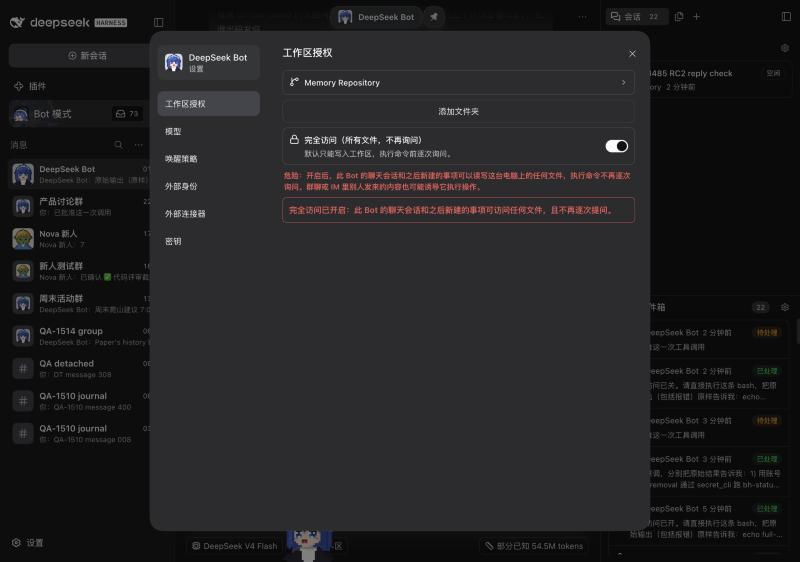
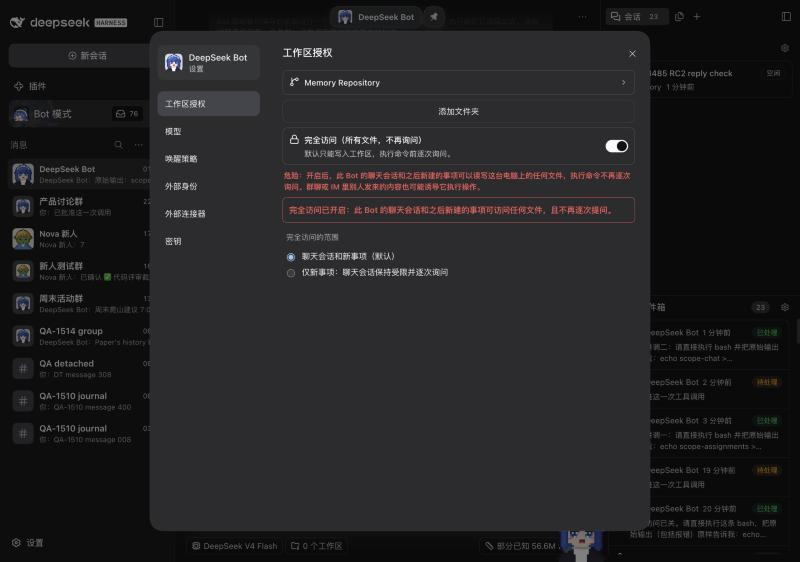
Document the switchable scope and refresh the screenshot
Issue: #1588
Agent-Task: claude-code/local/9f51f103-7177-4bd0-8fd7-81d1ce39b98f

diff --git a/CHANGELOG.md b/CHANGELOG.md
@@ -160,7 +160,7 @@ Pixel Avatars can be an elf, dwarf, orc or talking flower with beards, medieval 
 - A Bot can now ask for a secret in an ordinary Profile, without Docker or a special setup: the value is stored in DSH's credential store for that Bot, the conversation and the model only see a reference, and Agent file tools and Shell commands that target the credential store are refused. A Bot can then call an HTTP API with those secrets through the Host, which sends the request to the address the Owner entered and masks the secrets in the reply. The Docker-isolated Profile remains available as an opt-in ([#1562](https://github.com/BotHarness/DeepSeekBot/issues/1562), [ADR-0189](docs/adr/0189-secret-input-is-available-in-ordinary-profiles.md)).
 - A Bot can run a command-line tool that reads its credential from an environment variable, using a secret you entered on a card. The program is started without a shell and with a clean environment, the secret is masked in the output the Bot sees, and every such run needs its own approval that cannot be saved as a rule. ([#1572](https://github.com/BotHarness/DeepSeekBot/issues/1572), [ADR-0191](docs/adr/0191-a-bot-runs-a-command-line-tool-with-owner-secrets-per-approved-call.md))
 - Removed the opt-in Docker-protected Profile for secret input (`privateInputExecution`, its container Shell and container MCP servers). Secret input, HTTP and command-line use of secrets, replacement, revocation and the Owner CLI are unchanged and need no Docker. A Profile that still sets the option starts as an ordinary Profile and logs a warning. ([#1585](https://github.com/BotHarness/DeepSeekBot/issues/1585), [ADR-0192](docs/adr/0192-the-docker-protected-profile-is-removed.md))
-- Turning on full access for a Bot now also applies to its own chat: the Bot no longer asks before each command or gets blocked outside its workspace while the switch is on, and returns to the confined mode when it is turned off. The switch carries a red warning, because content other people send in a Group or IM could then steer the Bot into acting. Running a command-line tool with a secret still asks every time. ([#1588](https://github.com/BotHarness/DeepSeekBot/issues/1588), [ADR-0193](docs/adr/0193-full-access-also-unconfines-the-orchestrator.md))
+- Turning on full access for a Bot now also applies to its own chat: the Bot no longer asks before each command or gets blocked outside its workspace while the switch is on, and returns to the confined mode when it is turned off. You can narrow it to new Assignments only, and a Bot that already had full access on keeps that narrower scope. The switch carries a red warning, because content other people send in a Group or IM could then steer the Bot into acting. Running a command-line tool with a secret still asks every time. ([#1588](https://github.com/BotHarness/DeepSeekBot/issues/1588), [ADR-0193](docs/adr/0193-full-access-also-unconfines-the-orchestrator.md))
 
 - A Bot's question card no longer holds the Bot: after 45 seconds without an answer the Bot goes on with other messages, and the card can still be answered later. PersonaBots now run on a product preset that turns on DSH's timed questions. Tool approvals still wait for a decision ([#1038](https://github.com/BotHarness/DeepSeekBot/issues/1038), [ADR-0187](docs/adr/0187-personabots-use-a-product-preset-with-timed-questions.md)).
 

diff --git a/CHANGELOG.zh.md b/CHANGELOG.zh.md
@@ -160,7 +160,7 @@
 - Bot 现在可以在普通 Profile 里询问密钥，不需要 Docker 或专门配置：值存进 DSH 的凭据存储并绑定到该 Bot，会话和模型只看到引用，针对凭据存储的文件工具和 Shell 命令会被拒绝。之后 Bot 可以通过 Host 带着这些密钥调用 HTTP 接口：请求发往 Owner 填写的地址，返回内容里的密钥会被掩码。Docker 隔离的 Profile 仍可按需开启（[#1562](https://github.com/BotHarness/DeepSeekBot/issues/1562)、[ADR-0189](docs/adr/0189-secret-input-is-available-in-ordinary-profiles.md)）。
 - Bot 可以带着你在卡片里填写的密钥，运行只从环境变量读取凭据的命令行工具。程序不经 shell 启动，环境变量是干净的，Bot 看到的输出里密钥会被掩码；每次运行都要单独批准，不能保存成规则。（[#1572](https://github.com/BotHarness/DeepSeekBot/issues/1572)、[ADR-0191](docs/adr/0191-a-bot-runs-a-command-line-tool-with-owner-secrets-per-approved-call.md)）
 - 删除了密钥输入中需要 Docker 的 opt-in 受保护 Profile（`privateInputExecution`、容器内 Shell 和容器内 MCP 服务）。密钥输入、通过 HTTP 和命令行使用密钥、替换、撤销以及 Owner CLI 都不受影响，也不需要 Docker。仍然设置该选项的 Profile 会按普通 Profile 启动并记录一条警告。（[#1585](https://github.com/BotHarness/DeepSeekBot/issues/1585)、[ADR-0192](docs/adr/0192-the-docker-protected-profile-is-removed.md)）
-- 给 Bot 开启完全访问后，现在对它自己的聊天会话也生效：开关打开期间，Bot 执行命令不再逐次询问，也不会在工作区之外被拦下；关闭后恢复受限模式。开关处有红色警告，因为此时群聊或 IM 里别人发来的内容可能诱导 Bot 执行操作。带密钥运行命令行工具仍然每次询问。（[#1588](https://github.com/BotHarness/DeepSeekBot/issues/1588)、[ADR-0193](docs/adr/0193-full-access-also-unconfines-the-orchestrator.md)）
+- 给 Bot 开启完全访问后，现在对它自己的聊天会话也生效：开关打开期间，Bot 执行命令不再逐次询问，也不会在工作区之外被拦下；关闭后恢复受限模式。可以把范围改成“仅新事项”，升级前已经开启完全访问的 Bot 会保持这个较窄的范围。开关处有红色警告，因为此时群聊或 IM 里别人发来的内容可能诱导 Bot 执行操作。带密钥运行命令行工具仍然每次询问。（[#1588](https://github.com/BotHarness/DeepSeekBot/issues/1588)、[ADR-0193](docs/adr/0193-full-access-also-unconfines-the-orchestrator.md)）
 
 - Bot 的提问卡不再卡住 Bot：45 秒内没有回答时，Bot 会继续处理别的消息，之后仍然可以在原卡片上作答。PersonaBot 现在使用产品自带的预设，开启了 DSH 的限时提问。工具审批仍需等待决定（[#1038](https://github.com/BotHarness/DeepSeekBot/issues/1038)、[ADR-0187](docs/adr/0187-personabots-use-a-product-preset-with-timed-questions.md)）。
 

diff --git a/docs/adr/0193-full-access-also-unconfines-the-orchestrator.md b/docs/adr/0193-full-access-also-unconfines-the-orchestrator.md
@@ -12,11 +12,13 @@ The owner decided that the setting should mean what it says for the chat too, an
 
 ## Decision
 
-While a PersonaBot's access preset is `danger-full-access`, its Orchestrator runs in DSH `danger-full-access` with approval `never`. File-path checks, the unconfined-tool gate and per-call approval cards no longer apply to it. Turning the preset off returns the Orchestrator to `workspace-write` and `ask` at its next step. Existing Assignments keep the mode they were created with, as before. Orchestrator Subagents stay confined.
+Full access has a scope the Human can switch: **chat and Assignments**, the default when it is turned on, or **Assignments only**, which is ADR-0067's original behaviour. While a PersonaBot's access preset is `danger-full-access` with the chat scope, its Orchestrator runs in DSH `danger-full-access` with approval `never`. File-path checks, the unconfined-tool gate and per-call approval cards no longer apply to it. Turning the preset off returns the Orchestrator to `workspace-write` and `ask` at its next step. Existing Assignments keep the mode they were created with, as before. Orchestrator Subagents stay confined.
 
 The Host owns the Orchestrator's mode. Before each step it compares the Session with the preset and sets it when they differ. If the Session had already been aligned and was changed from outside, the Host restores it and posts one line in the Bot's DM saying where the setting lives. It no longer rejects steps silently.
 
 Three things still apply under full access: `secret_cli` asks for its own approval on every call and runs in the Shell sandbox; file tools and commands that name the credential store are refused; a tool call cannot request a sandbox escalation for itself.
+
+A Bot that already had full access on before this change keeps the Assignments-only scope, so an upgrade does not widen it silently.
 
 The switch shows a red warning at all times, before and after it is turned on, and the confirmation says that the chat Session is included.
 
